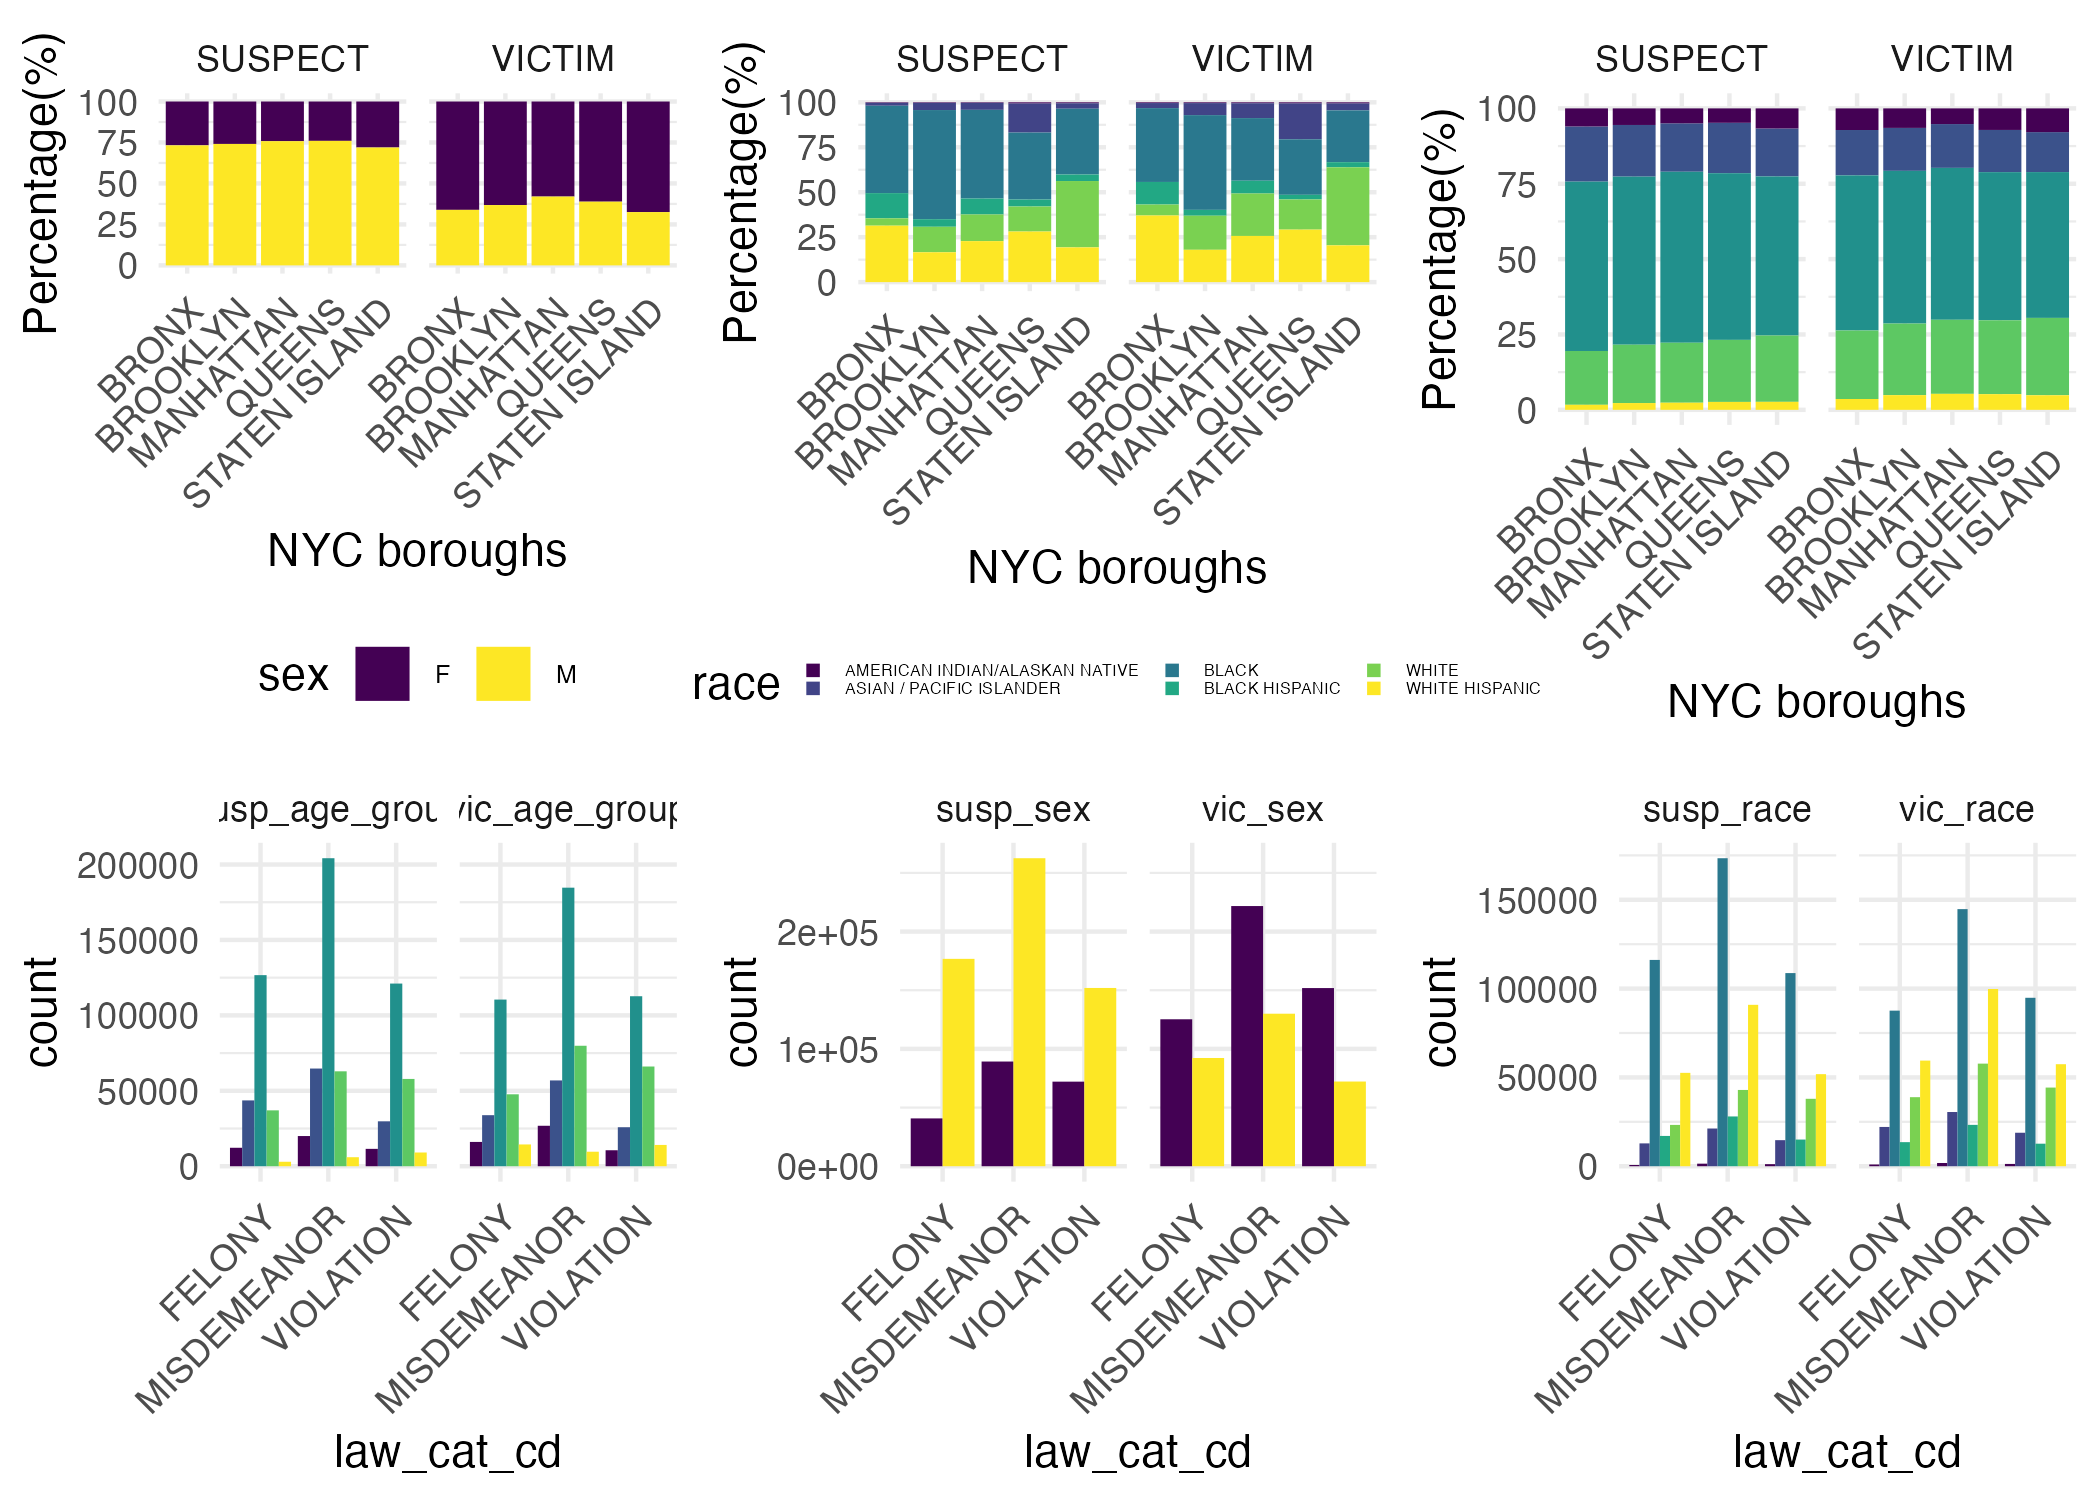
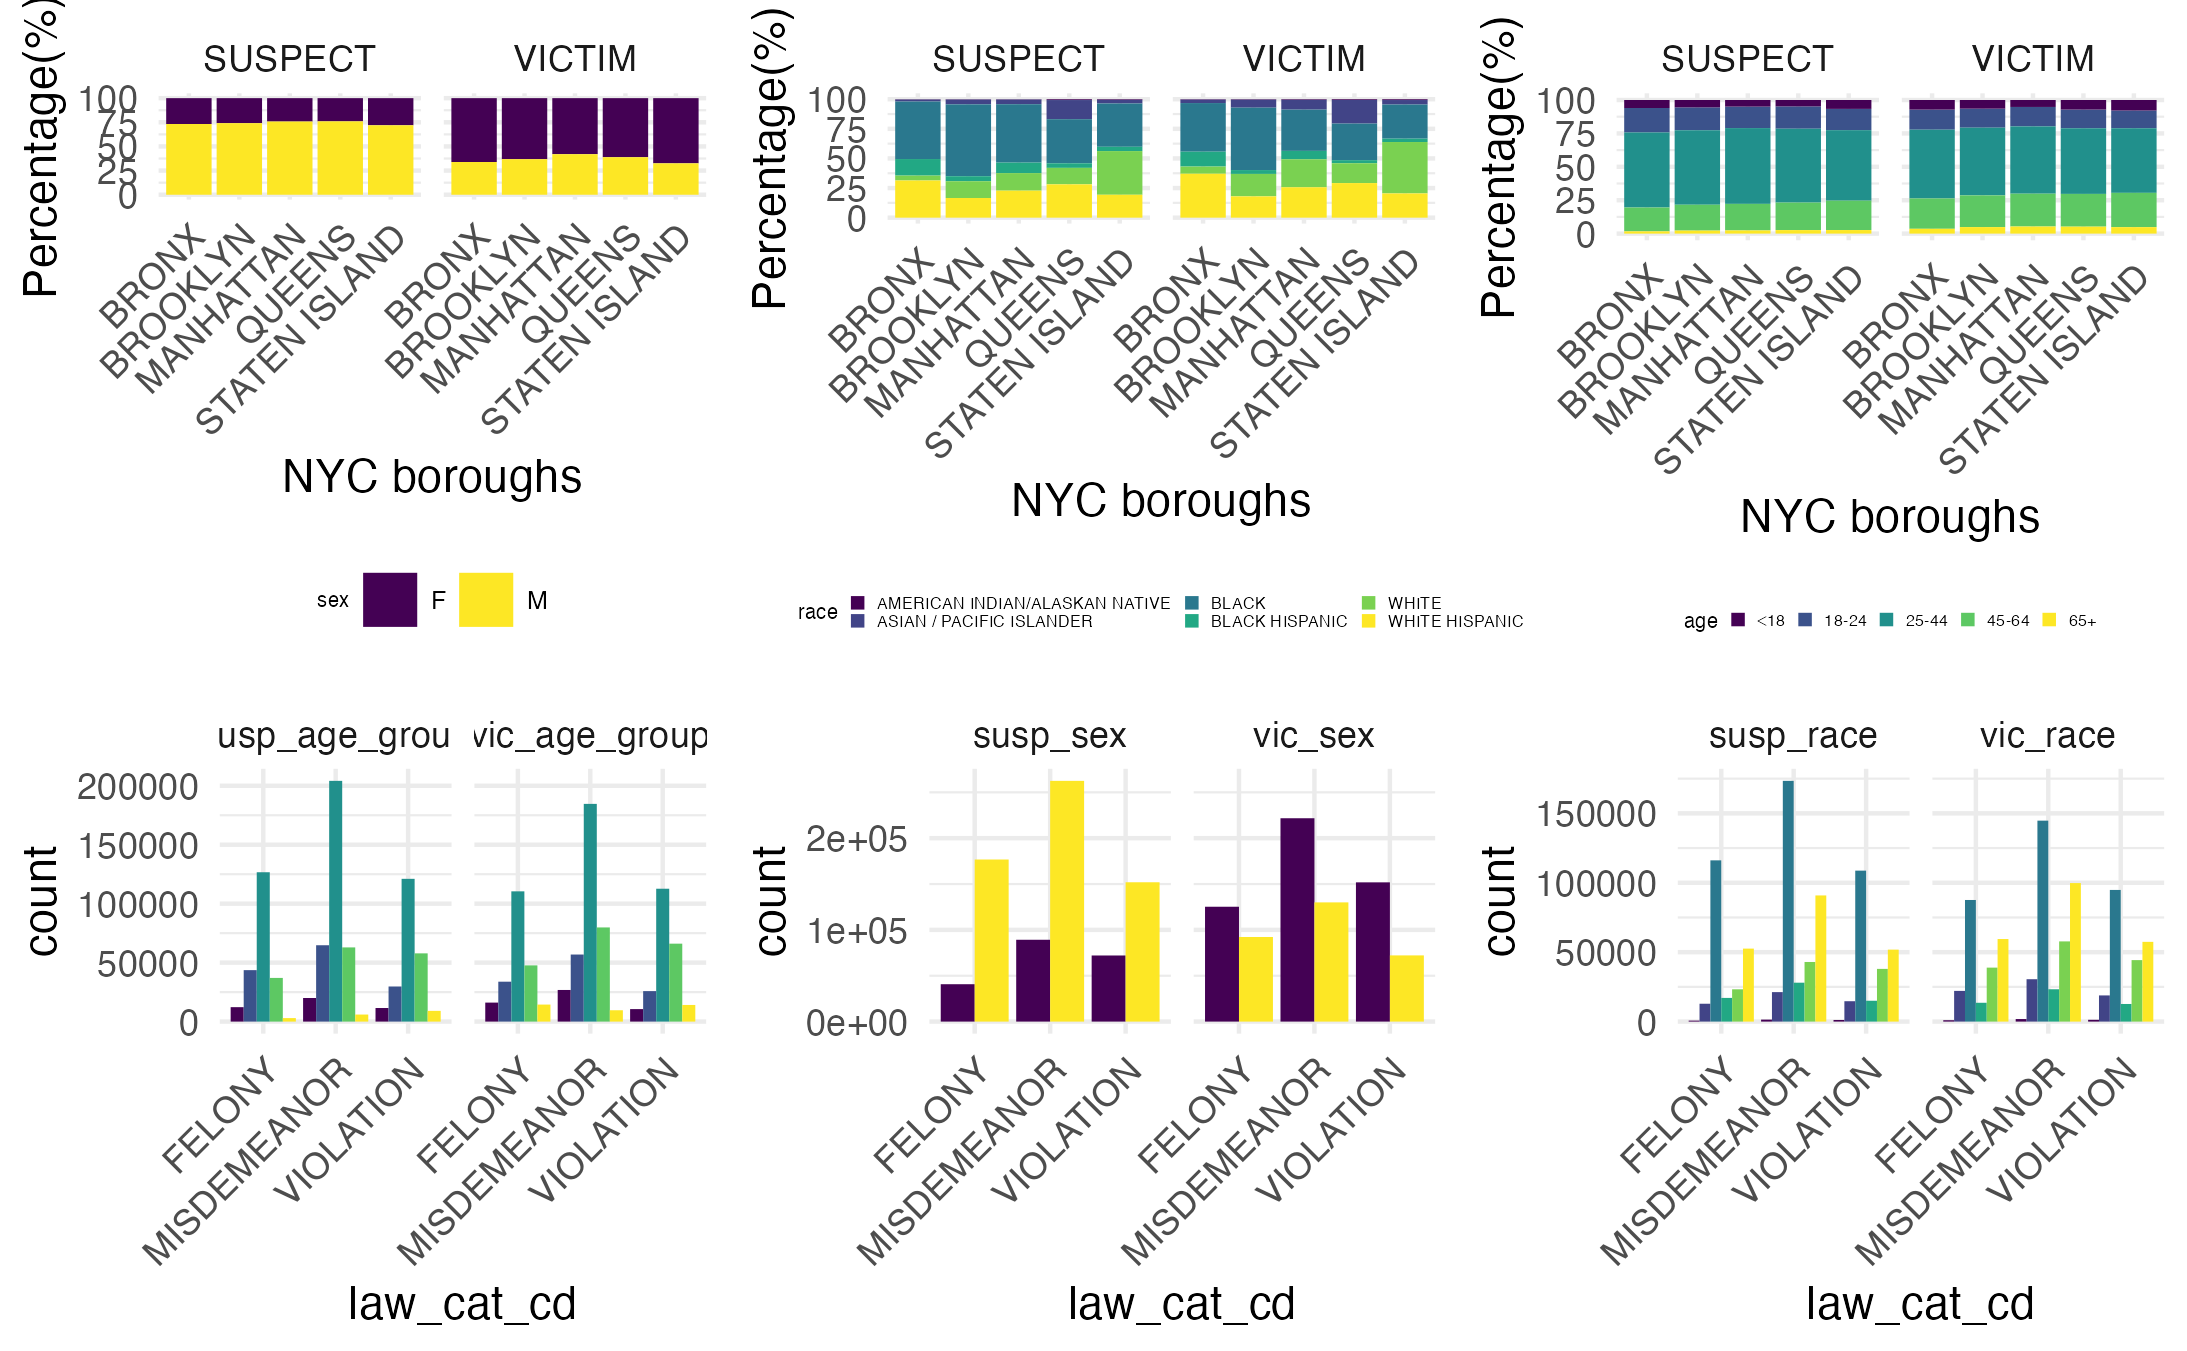
proof read the report page and modified formats/titles. updated demographic image on report page.

diff --git a/Report.html b/Report.html
@@ -13,7 +13,7 @@
 
 <title>Report</title>
 
-<script src="site_libs/header-attrs-2.25/header-attrs.js"></script>
+<script src="site_libs/header-attrs-2.24/header-attrs.js"></script>
 <script src="site_libs/jquery-3.6.0/jquery-3.6.0.min.js"></script>
 <meta name="viewport" content="width=device-width, initial-scale=1" />
 <link href="site_libs/bootstrap-3.3.5/css/flatly.min.css" rel="stylesheet" />
@@ -595,8 +595,6 @@ analysis during the filtering process.</p>
 </div>
 <div id="exploratory-analysis" class="section level1">
 <h1>Exploratory analysis</h1>
-<p>(Visualizations, summaries, and exploratory statistical analysies.
-Justify the steps you took, and show any major change to your ideas)</p>
 <div id="crime-event-analysis-1" class="section level3">
 <h3>Crime Event Analysis</h3>
 <p>*Temporal Trends: To depict the trends in the number of cases over
@@ -627,22 +625,23 @@ into the geographical crime landscape</p>
 </div>
 <div id="suspects-and-victims-1" class="section level3">
 <h3>Suspects and Victims</h3>
-<p><img src="demographic_analysis.png" /></p>
 <p>Six barplots were created to visualize the distribution of race, age,
 and sex in suspects and victims against boroughs and levels of crime.
-The legends are labeled in the first two plots and are consistent
+The legends are labeled in the first three plots and are consistent
 throughout the rest.<br />
-F or analysis across boroughs, number of suspects and number of victims
-are separately counted in each race, age, and sex groups. Initially,
-count of suspects and victims in each race, age, and sex groups were
-plotted. However, the different total population of each borough made it
-difficult to directly visualize the distributions. Thus, percentage of
-suspects and victims in each race, age, and sex groups were calculated
-by dividing the count by total number of suspects or victims in each
-borough. For analysis across levels of crime, the data is divided into
-victims and suspects. Variables describing race, age, and sex were
-selected. The absolute counts are plotted out against each levels of
-crime.</p>
+</p>
+<p><img src="demographic_analysis.png" /></p>
+<p>For analysis across boroughs, number of suspects and number of
+victims are separately counted in each race, age, and sex groups.
+Initially, count of suspects and victims in each race, age, and sex
+groups were plotted. However, the different total population of each
+borough made it difficult to directly visualize the distributions. Thus,
+percentage of suspects and victims in each race, age, and sex groups
+were calculated by dividing the count by total number of suspects or
+victims in each borough. For analysis across levels of crime, the data
+is divided into victims and suspects. Variables describing race, age,
+and sex were selected. The absolute counts are plotted out against each
+levels of crime.</p>
 </div>
 <div
 id="crime-rate-and-socioeconomic-status-by-neighborhoodnypd-precinct"
